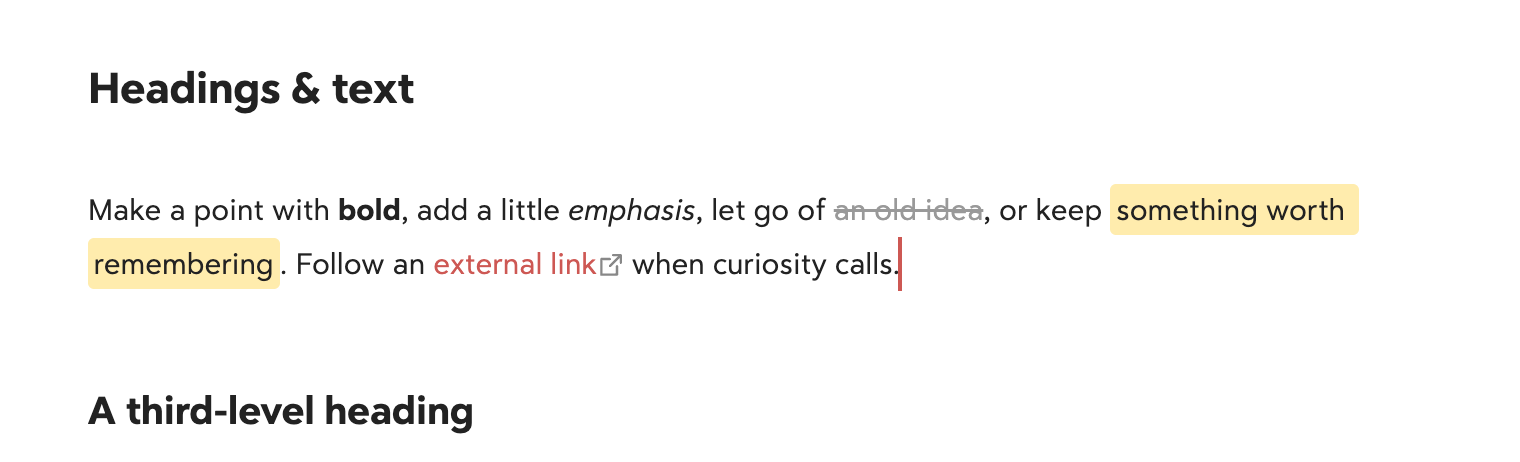
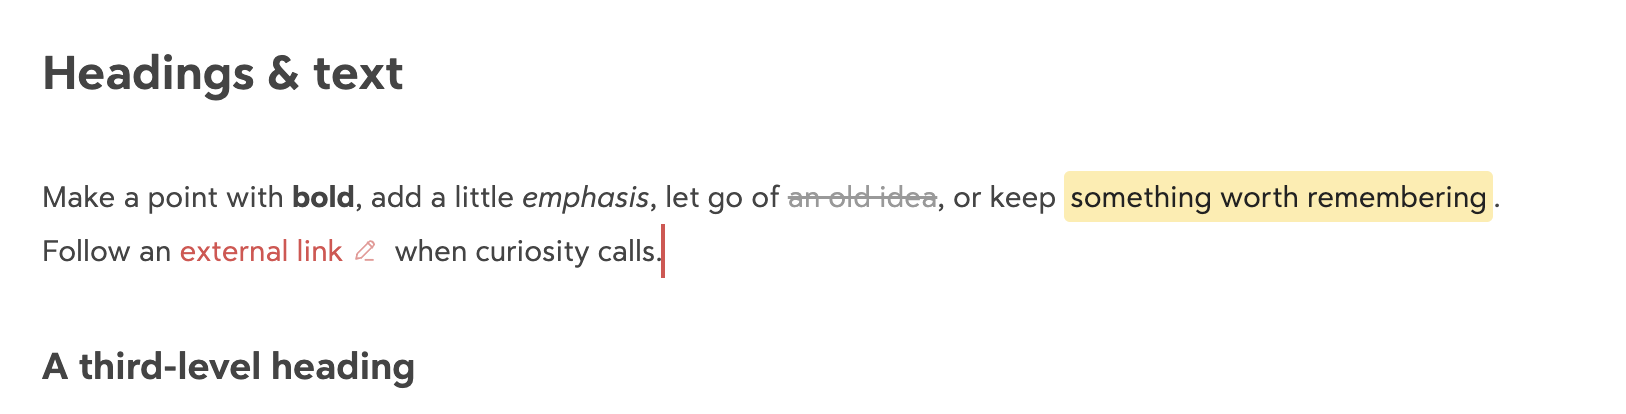
Refresh bilingual previews with calibrated Bear styling

Changed region(s): [[0.0309, 0.3768, 0.9276, 0.6377], [0.0, 0.1159, 0.2783, 0.2609], [0.0309, 0.8406, 0.3092, 0.9565]]

diff --git a/README.zh-CN.md b/README.zh-CN.md
@@ -26,6 +26,8 @@ Agent 会自行阅读[详细安装指南](INSTALL.md)，无需复制长篇说明
 
 ## 看看效果
 
+以下截图于 2026 年 9 月 19 日使用当前 `main` 样式拍摄，保留 2× 分辨率。
+
 ![Obsidian 完整中文演示：标题、文字、列表、任务、引用、高亮、代码、表格与图片](docs/images/demo-zh.png)
 
 ### 光标效果

diff --git a/CHANGELOG.md b/CHANGELOG.md
@@ -2,6 +2,8 @@
 
 ## Unreleased
 
+- Refresh English and Chinese full-page screenshots and cursor close-ups with the calibrated styles, captured at 2× resolution.
+
 - Add a small trailing gap after external-link pencil icons so adjacent text does not touch the icon.
 
 - Use thin 1px Markdown separators in Bear Red Graphite's `#D9D9D9`, in live preview and reading mode.

diff --git a/README.md b/README.md
@@ -26,6 +26,8 @@ The agent reads the [detailed installation guide](INSTALL.md), so you don't have
 
 ## Preview
 
+Captured on September 19, 2026 with the current `main` styles, at 2× resolution.
+
 ![Full English demo in Obsidian: headings, text, lists, tasks, quotes, highlights, code, table, and image](docs/images/demo-en.png)
 
 ### Cursor in action
